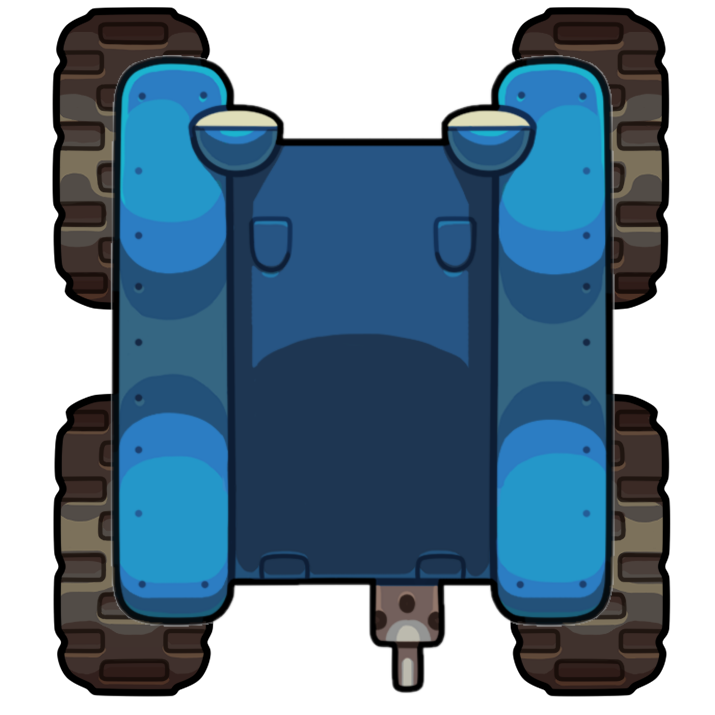
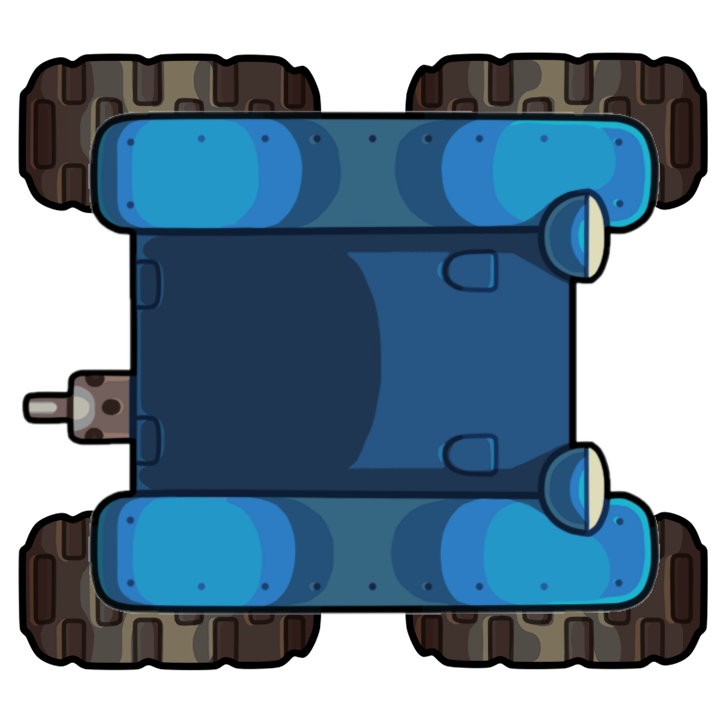
progress

diff --git a/JocS/JocS/Player.py b/JocS/JocS/Player.py
@@ -32,10 +32,7 @@ class control :
 
 class player:
     #Initializarea obiectului
-    def __init__(self,BIMG,UIMG):
-        #The images for the character
-        self.Bottom_image = BIMG
-        self.Upper_image = UIMG
+    def __init__(self,BIMG,UIMG,Gx,Gy,size):
         # The Variables used for the lobby
         self.Selected = False
         self.Source = "Unknown"
@@ -44,6 +41,15 @@ class player:
         self.configuring = False
         #Controalele pentru pleyer (toate butoanele apasate,configurarea pentru controlar)
         self.Control = control(self.Source)
+        #Variabile pentru afisare 
+        self.size = size
+        self.Bottom_image = pygame.transform.scale(BIMG,(9*self.size/8, 7*self.size/8))
+        self.Upper_image = pygame.transform.scale(UIMG,(self.size,self.size))
+        self.Upper_angle = 90
+        self.Bottom_angle = 90
+        self.GX = Gx
+        self.GY = Gy
+
     #Functie de resetat controalele pleyerului
     def reset_control (self) :
         self.Control = control (self.Source)
@@ -105,3 +111,13 @@ class player:
         elif self.Exit_cooldown > 0 :
             self.Exit_cooldown = 0
         return 0
+    #Afisarea playerului pe ecran la coordonatele lui 
+    def afisare (self,WIN) :
+        BIMAGE = pygame.transform.rotate(self.Bottom_image,self.Bottom_angle)
+        x = self.GX - BIMAGE.get_width()/2
+        y = self.GY - BIMAGE.get_height()/2
+        WIN.blit(BIMAGE,(x,y))
+        UIMAGE = pygame.transform.rotate(self.Upper_image,self.Upper_angle)
+        x = self.GX - UIMAGE.get_width()/2
+        y = self.GY - UIMAGE.get_height()/2
+        WIN.blit(UIMAGE,(x,y))

diff --git a/JocS/JocS/Lobby.py b/JocS/JocS/Lobby.py
@@ -9,8 +9,13 @@ def lobby (WIN,WIDTH,HEIGHT,FPS) :
     pygame.joystick.init()
     joysticks = [pygame.joystick.Joystick(i) for i in range(pygame.joystick.get_count())]
     Playeri = []
+    #initializarea playerilor
+
     for i in range (4) :
-        P = player(pygame.image.load(os.path.join('Assets', 'Bottom-Blue.png')),pygame.image.load(os.path.join('Assets', 'Bottom-Blue.png')))
+        Gx = 30 + i * ((WIDTH - 150) / 4 + 30) + (WIDTH - 150) / 8
+        Gy = HEIGHT/2
+        size = 250
+        P = player(pygame.image.load(os.path.join('Assets', 'Bottom-Blue.png')), pygame.image.load(os.path.join('Assets', 'Upper-Blue.png')), Gx, Gy, size)
         Playeri.append(P)
     Input = {"Keyboard" : None , 0:None , 1:None , 2:None , 3:None , 4:None}
 
@@ -39,11 +44,13 @@ def lobby (WIN,WIDTH,HEIGHT,FPS) :
             x = 30 + i * ((WIDTH - 150) / 4 + 30)
             y = HEIGHT/3
             width = (WIDTH - 150)/4
-            if Playeri[i].Selected == False :
+            if Playeri[i].Ready == False :
                 color = [200,200,200]
             else :
                 color = [0,204,0]
             pygame.draw.rect(WIN, color, pygame.Rect(x, y, width, y))
+            if Playeri[i].Selected == True :
+                Playeri[i].afisare(WIN)
         pygame.display.update()
 
     #The loop of the Lobby
